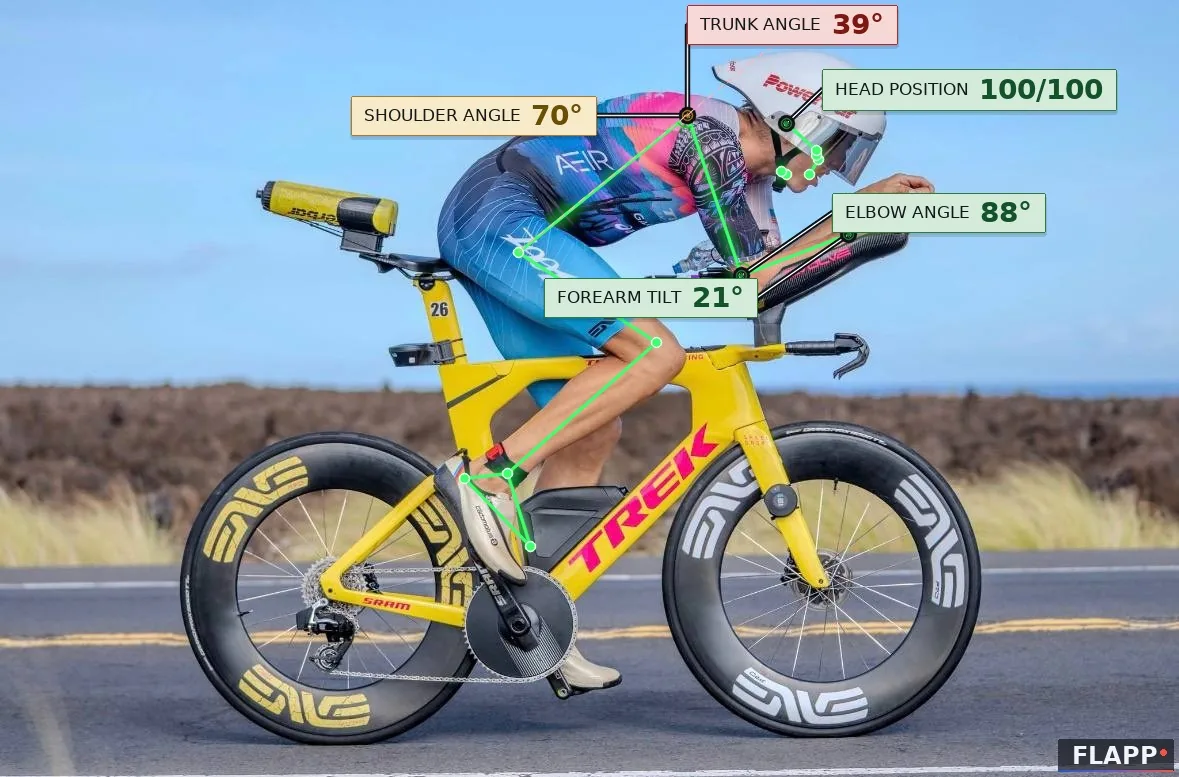
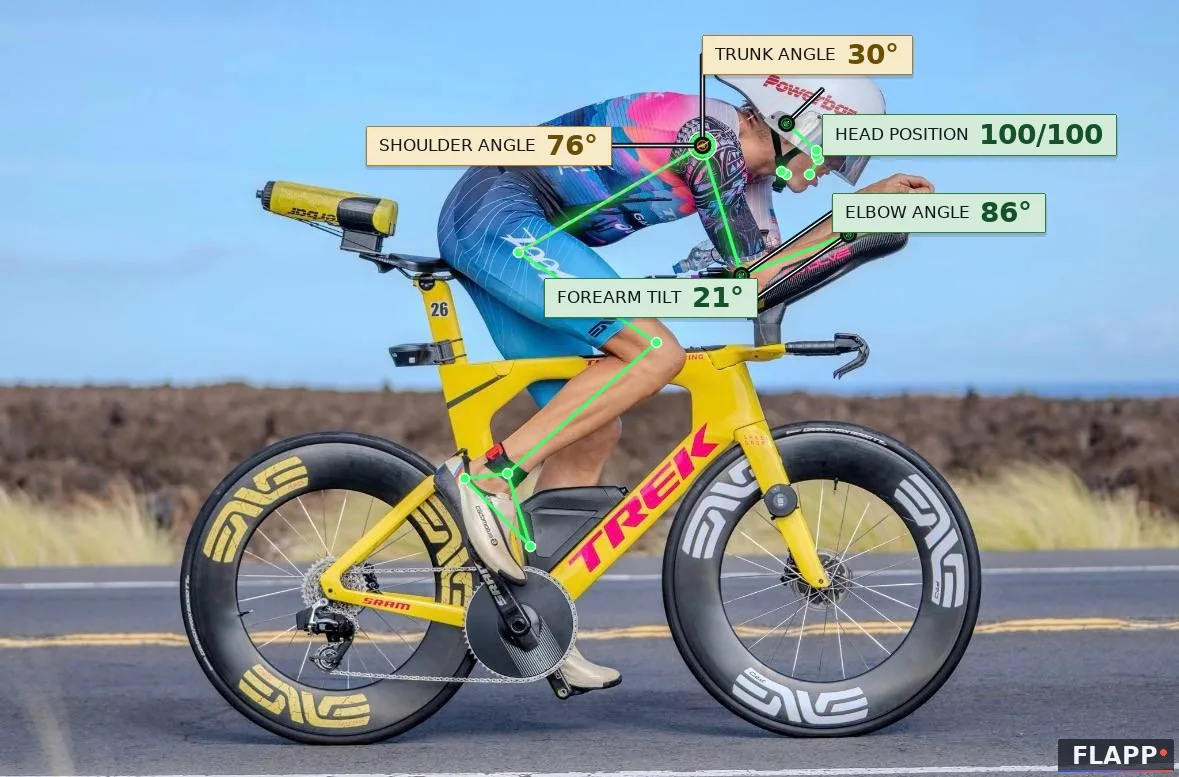
Kona article: position 4's shoulder point moved into the joint, and said so
Artur spotted it: on position 4 the model put the shoulder point on the top
edge of the back, by the neck, not in the joint -- so the torso read 39 deg.
Moved by hand into the deltoid on the upper-arm axis (15 px right, 30 px
down), the way the app's own correction moves a point, it reads torso 30,
shoulder 77, elbow 86. The figure rings the corrected point, its caption says
it was moved, and the method paragraph names the one correction and what it
changed. Every other point is the model's.

The field moves only at its edges: torso range 12-32 (was 12-39), shoulder
71-97 (was 70-97). Medians, middle halves, every count in the text and the
elbow/forearm coupling (r = -0.76) are unchanged. Chart re-drawn.

Changed region(s): [[0.2748, 0.0, 0.9466, 0.3089], [0.6107, 0.278, 0.6412, 0.3089], [0.4275, 0.3089, 0.458, 0.3398]]

diff --git a/backend/tests/test_academy_figures.py b/backend/tests/test_academy_figures.py
@@ -61,10 +61,18 @@ class TestTheKonaDraft:
         tilts = [float(m) for m in re.findall(r"Position \d+ of 14: forearm tilt (\d+)", text)]
         assert tilts == sorted(tilts), "ordered from the flattest forearms to the steepest"
 
+    def test_the_one_hand_corrected_point_is_disclosed(self):
+        """Position 4: the model put the shoulder on the top edge of the back
+        (torso read 39 deg); moved into the joint by hand it reads 30. The
+        article says so, in the caption and in the method."""
+        text = DRAFT.read_text(encoding="utf-8")
+        assert "Position 4 of 14: forearm tilt 21°, torso 30°" in text
+        assert "moved by hand" in text and "from 39° to 30°" in text
+
     def test_the_numbers_in_the_text_match_the_table(self):
         text = DRAFT.read_text(encoding="utf-8")
-        for row in ("| Torso, from horizontal | 20° | 17–24° | 12–39° | 20–30° |",
-                    "| Shoulder, torso to upper arm | 85° | 77–88° | 70–97° | 80–105° |",
+        for row in ("| Torso, from horizontal | 20° | 17–24° | 12–32° | 20–30° |",
+                    "| Shoulder, torso to upper arm | 85° | 77–88° | 71–97° | 80–105° |",
                     "| Elbow | 80° | 76–89° | 62–107° | 75–110° |",
                     "| Forearm tilt, above horizontal | 25° | 21–26° | 10–31° | 5–30° |"):
             assert row in text, row

diff --git a/backend/content/academy/kona-2026-pro-bike-positions.md b/backend/content/academy/kona-2026-pro-bike-positions.md
@@ -44,8 +44,8 @@ The day after the Ironman World Championship we ran fourteen professional bike p
 
 | Angle | Median | Middle half | Full range | Flapp's triathlon range |
 |---|---|---|---|---|
-| Torso, from horizontal | 20° | 17–24° | 12–39° | 20–30° |
-| Shoulder, torso to upper arm | 85° | 77–88° | 70–97° | 80–105° |
+| Torso, from horizontal | 20° | 17–24° | 12–32° | 20–30° |
+| Shoulder, torso to upper arm | 85° | 77–88° | 71–97° | 80–105° |
 | Elbow | 80° | 76–89° | 62–107° | 75–110° |
 | Forearm tilt, above horizontal | 25° | 21–26° | 10–31° | 5–30° |
 
@@ -73,7 +73,7 @@ Six of the fourteen positions were below 20°. Pros can hold that: years of cond
 
 ## 3. A closed shoulder is a choice, not an error
 
-In five of the fourteen positions the upper arm was closer than 80° to the torso, the lowest at 70°. Fit guidance still puts the reference at 90°: elbows under the shoulders. But the people who wrote that guidance never called less than 90° a fault. Dan Empfield's original description of the measurement says an angle below 90° is the athlete's personal choice, and that it is an angle opened past 90° that can become a problem. Fintelman's riders, in their own preferred positions, averaged 91° give or take 5°.
+In five of the fourteen positions the upper arm was closer than 80° to the torso, the lowest at 71°. Fit guidance still puts the reference at 90°: elbows under the shoulders. But the people who wrote that guidance never called less than 90° a fault. Dan Empfield's original description of the measurement says an angle below 90° is the athlete's personal choice, and that it is an angle opened past 90° that can become a problem. Fintelman's riders, in their own preferred positions, averaged 91° give or take 5°.
 
 ![Rider C: the shoulder closed to 71°, forearms at 28°, elbow at 62°.](/media/academy/kona-2026/rider-c.webp)
 
@@ -91,7 +91,7 @@ Every position we measured, ordered from the flattest forearms to the steepest. 
 
 ![Position 3 of 14: forearm tilt 19°, torso 19°, shoulder 77°, elbow 77°.](/media/academy/kona-2026/position-03.webp)
 
-![Position 4 of 14: forearm tilt 21°, torso 39°, shoulder 70°, elbow 88°.](/media/academy/kona-2026/position-04.webp)
+![Position 4 of 14: forearm tilt 21°, torso 30°, shoulder 77°, elbow 86°. The ringed shoulder point was moved by hand: the model had put it on the top edge of the back.](/media/academy/kona-2026/position-04.webp)
 
 ![Position 5 of 14: forearm tilt 21°, torso 25°, shoulder 86°, elbow 90°.](/media/academy/kona-2026/position-05.webp)
 
@@ -116,7 +116,7 @@ Every position we measured, ordered from the flattest forearms to the steepest. 
 
 No knee angles and no saddle verdicts. In a single race photo the crank is wherever it happened to be, so the knee angle is not a saddle-height reading. There is a second reason. Every one of these photos was taken from the drive side, the side with the chainring, because the riders crossed the frame in the same direction past photographers on one side of the road. On two bikes of our own we measured that the drive side reads the knee at the bottom of the stroke 8–10° lower than it really is: the ankle point slides onto the dark chainring behind it. So we left the legs out rather than publish numbers we know are biased.
 
-How we measured: fifteen photographs. One was rejected. The model had found the passenger on the camera motorbike instead of the rider, and Flapp returned no score rather than a wrong one. On the other fourteen, angles were measured in 2D on the side of the body nearest the camera, with an instrument spread of roughly 2–3°. Some athletes may appear in more than one photo; we could not check, so each photo counts as one position. The labels on the photographs are drawn by the same renderer the app uses on your own photos. It is one race, one day and one roadside viewpoint, so read these as the shape of a field, not as anyone's exact fit. We do not name the athletes: we cannot verify who is in every frame, and the point is the position, not the person.
+How we measured: fifteen photographs. One was rejected. The model had found the passenger on the camera motorbike instead of the rider, and Flapp returned no score rather than a wrong one. On the other fourteen, angles were measured in 2D on the side of the body nearest the camera, with an instrument spread of roughly 2–3°. Some athletes may appear in more than one photo; we could not check, so each photo counts as one position. The labels on the photographs are drawn by the same renderer the app uses on your own photos. In one photo, position 4, the model put the shoulder point on the top edge of the back instead of in the joint. We moved it down into the deltoid by hand, the way the app lets you correct a point, and the ring on that figure marks it; it changed that rider's torso from 39° to 30°. Every other point is the model's own. It is one race, one day and one roadside viewpoint, so read these as the shape of a field, not as anyone's exact fit. We do not name the athletes: we cannot verify who is in every frame, and the point is the position, not the person.
 
 ## What to take for your own position
 
